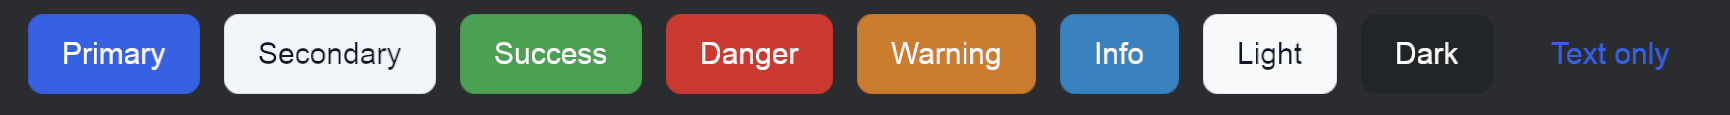
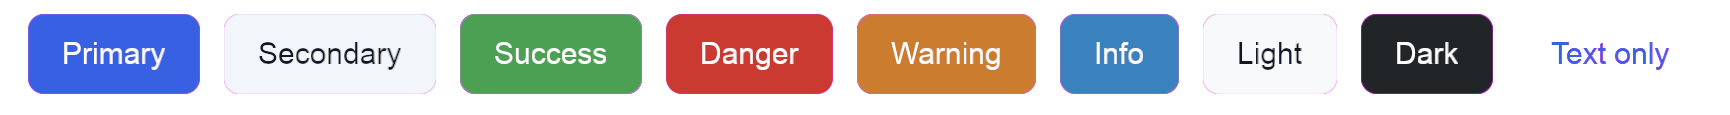
Updated button images

diff --git a/docs/src/components/button.md b/docs/src/components/button.md
@@ -80,6 +80,8 @@ fn spawn_outline_actions(mut commands: Commands) {
 
 Use outline buttons for secondary or lower-emphasis actions that should still carry a clear semantic color, without competing visually with a solid primary action next to them.
 
+`secondary` and `light` are themed as near-white neutrals, so their outline border/label color has very low contrast on a light page background (as visible above) — prefer their solid form, or a darker color, in light-background layouts.
+
 ## Disabled state
 
 Setting `disabled` does more than dim the button: it removes it from the tab order, blocks pointer and keyboard activation, and announces the disabled state to assistive technology.
